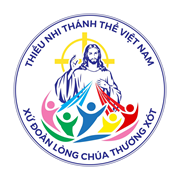
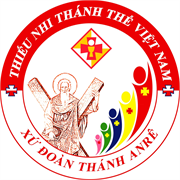
Add files via upload

diff --git a/index.html b/index.html
@@ -2,6 +2,7 @@
 <html>
 <head>
     <meta charset="UTF-8">
+  <title>Xứ Đoàn Thánh Anrê</title>
   <meta name="viewport" content="width=device-width, initial-scale=1.0, maximum-scale=1.0, user-scalable=no">
   <meta name="theme-color" content="#d32f2f">
 
@@ -23,13 +24,13 @@
   <meta name="mobile-web-app-capable" content="yes">
   <meta name="apple-mobile-web-app-capable" content="yes">
   <meta name="apple-mobile-web-app-status-bar-style" content="black-translucent">
-  <meta name="apple-mobile-web-app-title" content="Xứ Đoàn Lòng Chúa Thương Xót">
-  <meta name="application-name" content="Xứ Đoàn Lòng Chúa Thương Xót">
+  <meta name="apple-mobile-web-app-title" content="Xứ Đoàn Thánh Anrê">
+  <meta name="application-name" content="Xứ Đoàn Thánh Anrê">
   <link rel="apple-touch-icon" href="icons/apple-touch-icon.png">
   <link rel="manifest" href="manifest.webmanifest">
   <link rel="icon" type="image/png" href="icons/icon-192.png">
   
-  <link rel="shortcut icon" href="icons/logo-dai-dien.jpg" type="image/jpeg">
+  <link rel="shortcut icon" href="icons/icon-192.png" type="image/png">
   <link rel="stylesheet" href="https://cdnjs.cloudflare.com/ajax/libs/font-awesome/6.0.0/css/all.min.css">
   <script src="https://cdn.jsdelivr.net/npm/chart.js@4.4.4/dist/chart.umd.min.js"></script>
   <script src="config.js"></script>
@@ -2017,10 +2018,10 @@
     body.dark-mode .quy-progress-modern { background: #1c1d21; }
   </style>
 <script id="xd-avatar">
-// ===== ẢNH ĐẠI DIỆN: dùng ảnh của chính người đó; chưa có hoặc tải lỗi thì dùng logo Giáo xứ =====
+// ===== ẢNH ĐẠI DIỆN: dùng ảnh của chính người đó; chưa có hoặc tải lỗi thì dùng logo Xứ Đoàn =====
 // Logo mặc định để NGAY TRONG thư mục web (không phụ thuộc Drive/ibb) nên luôn hiện,
 // kể cả khi mất mạng hoặc Drive hết lượt tải.
-var ANH_LOGO_MAC_DINH = "icons/logo-dai-dien.jpg";
+var ANH_LOGO_MAC_DINH = "icons/icon-512.png";
 
 // Chuẩn hoá mọi link ảnh lấy từ máy chủ / sheet / localStorage:
 //  - link ibb cũ (đã 404)  -> logo mặc định
@@ -2264,7 +2265,7 @@ body.dark-mode .lock-notice { background:rgba(229,57,53,.14); border-color:rgba(
   <!-- MÀN HÌNH CHỜ (INTRO): logo Xứ Đoàn -> logo Hill -> nền trắng -> vào app -->
   <div id="splash-screen">
     <div class="intro-stage">
-      <img src="icons/logo-dai-dien.jpg" class="intro-logo intro-logo-1" alt="Xứ Đoàn Lòng Chúa Thương Xót">
+      <img src="icons/icon-512.png" class="intro-logo intro-logo-1" alt="Xứ Đoàn Thánh Anrê">
       <img src="icons/hill-community.png" class="intro-logo intro-logo-2" alt="Hill Community">
     </div>
   </div>
@@ -2273,10 +2274,10 @@ body.dark-mode .lock-notice { background:rgba(229,57,53,.14); border-color:rgba(
   <div id="login-screen">
     <div class="login-box">
       <div class="login-left-col">
-        <img src="icons/logo-dai-dien.jpg" class="logo-img">
+        <img src="icons/icon-512.png" class="logo-img">
         <div class="login-org-name-box">
-          XỨ ĐOÀN LÒNG CHÚA THƯƠNG XÓT
-          <small>Giáo xứ Bến Siêu</small>
+          XỨ ĐOÀN THÁNH ANRÊ
+          <small>Thiếu Nhi Thánh Thể Việt Nam</small>
         </div>
       </div>
       <div class="login-right-col">
@@ -2305,11 +2306,11 @@ body.dark-mode .lock-notice { background:rgba(229,57,53,.14); border-color:rgba(
     <!-- ===== SIDEBAR TRÁI (LAPTOP): giống bố cục của Huynh Trưởng ===== -->
     <div id="glv-sidebar">
       <div class="desktop-title-bar">
-        <img src="icons/logo-dai-dien.jpg" class="desktop-org-avatar" alt="">
-        <span>XỨ ĐOÀN LÒNG CHÚA THƯƠNG XÓT</span>
+        <img src="icons/icon-512.png" class="desktop-org-avatar" alt="">
+        <span>XỨ ĐOÀN THÁNH ANRÊ</span>
       </div>
       <div class="glv-side-user">
-        <img id="glv-side-img" src="icons/logo-dai-dien.jpg" alt="">
+        <img id="glv-side-img" src="icons/icon-512.png" alt="">
         <div class="glv-side-user-txt">
           <div id="glv-side-name">Giáo Lý Viên</div>
           <small id="glv-side-lop">Giáo Lý Viên</small>
@@ -2328,11 +2329,11 @@ body.dark-mode .lock-notice { background:rgba(229,57,53,.14); border-color:rgba(
     <div class="header">
       <div style="display:flex; align-items:center; flex-grow:1; min-width:0;">
         <span class="avatar-frame" style="margin-right:15px;">
-          <img id="glv-head-img" src="icons/logo-dai-dien.jpg" class="profile-img" style="margin-right:0;" alt="" decoding="async">
+          <img id="glv-head-img" src="icons/icon-512.png" class="profile-img" style="margin-right:0;" alt="" decoding="async">
         </span>
         <div style="min-width:0;">
           <h3 id="glv-head-name" style="margin:0; font-size:15px;">Giáo Lý Viên</h3>
-          <p id="glv-head-lop" style="margin:0; font-size:11px; opacity:0.8;">Xứ Đoàn Lòng Chúa Thương Xót</p>
+          <p id="glv-head-lop" style="margin:0; font-size:11px; opacity:0.8;">Xứ Đoàn Thánh Anrê</p>
         </div>
       </div>
       <div style="font-size:22px; cursor:pointer; position:relative; padding:9px;" onclick="toggleMenuGLV(event)">
@@ -2350,7 +2351,7 @@ body.dark-mode .lock-notice { background:rgba(229,57,53,.14); border-color:rgba(
     <div class="content" style="display:block;">
       <div id="glv-tab-lopcuatoi">
         <div class="glv-hero">
-          <span class="avatar-frame"><img id="glv-hero-img" class="glv-hero-img" src="icons/logo-dai-dien.jpg" alt="" decoding="async"></span>
+          <span class="avatar-frame"><img id="glv-hero-img" class="glv-hero-img" src="icons/icon-512.png" alt="" decoding="async"></span>
           <div class="glv-hero-txt">
             <div class="glv-hero-hi">XIN CHÀO QUÝ THẦY CÔ!</div>
             <h2 id="glv-hero-name">Giáo Lý Viên</h2>
@@ -2480,8 +2481,8 @@ body.dark-mode .lock-notice { background:rgba(229,57,53,.14); border-color:rgba(
     <div id="desktop-sidebar" class="desktop-only">
       <div id="desktop-topbar" class="desktop-only">
         <div class="desktop-title-bar">
-          <img src="icons/logo-dai-dien.jpg" class="desktop-org-avatar" onclick="toggleMenu(event)">
-          <span>XỨ ĐOÀN LÒNG CHÚA THƯƠNG XÓT</span>
+          <img src="icons/icon-512.png" class="desktop-org-avatar" onclick="toggleMenu(event)">
+          <span>XỨ ĐOÀN THÁNH ANRÊ</span>
         </div>
         <button class="desktop-settings-btn" onclick="toggleMenu(event)"><i class="fas fa-cog"></i> CÀI ĐẶT</button>
       </div>
@@ -2699,7 +2700,7 @@ body.dark-mode .lock-notice { background:rgba(229,57,53,.14); border-color:rgba(
         <h3 style="color:#d32f2f; display:flex; align-items:center; gap:8px;">NHỮNG DẤU SON CỦA XỨ ĐOÀN</h3>
         <div id="hanhtrinh-container">
           <div class="loading-logo-wrapper">
-            <span class="logo-figure"><span class="lf-arm lf-arm-l"></span><span class="lf-arm lf-arm-r"></span><img src="icons/logo-dai-dien.jpg" class="loading-logo-img"><span class="lf-leg lf-leg-l"></span><span class="lf-leg lf-leg-r"></span></span>
+            <span class="logo-figure"><span class="lf-arm lf-arm-l"></span><span class="lf-arm lf-arm-r"></span><img src="icons/icon-512.png" class="loading-logo-img"><span class="lf-leg lf-leg-l"></span><span class="lf-leg lf-leg-r"></span></span>
             <div class="loading-logo-text">Đang tải lịch sử...</div>
           </div>
         </div>
@@ -2726,7 +2727,7 @@ body.dark-mode .lock-notice { background:rgba(229,57,53,.14); border-color:rgba(
           <h3 style="font-size:15px; color:#2c3e50; margin-bottom:10px;">Đơn Của Tôi</h3>
           <div id="my-leave-container">
             <div class="loading-logo-wrapper">
-              <span class="logo-figure"><span class="lf-arm lf-arm-l"></span><span class="lf-arm lf-arm-r"></span><img src="icons/logo-dai-dien.jpg" class="loading-logo-img"><span class="lf-leg lf-leg-l"></span><span class="lf-leg lf-leg-r"></span></span>
+              <span class="logo-figure"><span class="lf-arm lf-arm-l"></span><span class="lf-arm lf-arm-r"></span><img src="icons/icon-512.png" class="loading-logo-img"><span class="lf-leg lf-leg-l"></span><span class="lf-leg lf-leg-r"></span></span>
               <div class="loading-logo-text">Đang tải đơn của bạn...</div>
             </div>
           </div>
@@ -2738,7 +2739,7 @@ body.dark-mode .lock-notice { background:rgba(229,57,53,.14); border-color:rgba(
         <p style="font-size:13px; color:#7f8c8d;">Lịch trực phân công dành riêng cho Trưởng.</p>
         <div id="work-container">
           <div class="loading-logo-wrapper">
-            <span class="logo-figure"><span class="lf-arm lf-arm-l"></span><span class="lf-arm lf-arm-r"></span><img src="icons/logo-dai-dien.jpg" class="loading-logo-img"><span class="lf-leg lf-leg-l"></span><span class="lf-leg lf-leg-r"></span></span>
+            <span class="logo-figure"><span class="lf-arm lf-arm-l"></span><span class="lf-arm lf-arm-r"></span><img src="icons/icon-512.png" class="loading-logo-img"><span class="lf-leg lf-leg-l"></span><span class="lf-leg lf-leg-r"></span></span>
             <div class="loading-logo-text">Đang tra cứu lịch...</div>
           </div>
         </div>
@@ -2749,7 +2750,7 @@ body.dark-mode .lock-notice { background:rgba(229,57,53,.14); border-color:rgba(
         <p style="font-size:13px; color:#7f8c8d;">Xác nhận tiến độ chương trình thăng tiến tại đây.</p>
         <div id="cttt-container">
           <div class="loading-logo-wrapper">
-            <span class="logo-figure"><span class="lf-arm lf-arm-l"></span><span class="lf-arm lf-arm-r"></span><img src="icons/logo-dai-dien.jpg" class="loading-logo-img"><span class="lf-leg lf-leg-l"></span><span class="lf-leg lf-leg-r"></span></span>
+            <span class="logo-figure"><span class="lf-arm lf-arm-l"></span><span class="lf-arm lf-arm-r"></span><img src="icons/icon-512.png" class="loading-logo-img"><span class="lf-leg lf-leg-l"></span><span class="lf-leg lf-leg-r"></span></span>
             <div class="loading-logo-text">Đang tải CTTT...</div>
           </div>
         </div>
@@ -2764,7 +2765,7 @@ body.dark-mode .lock-notice { background:rgba(229,57,53,.14); border-color:rgba(
 
         <div id="thieunhi-container">
           <div class="loading-logo-wrapper">
-            <span class="logo-figure"><span class="lf-arm lf-arm-l"></span><span class="lf-arm lf-arm-r"></span><img src="icons/logo-dai-dien.jpg" class="loading-logo-img"><span class="lf-leg lf-leg-l"></span><span class="lf-leg lf-leg-r"></span></span>
+            <span class="logo-figure"><span class="lf-arm lf-arm-l"></span><span class="lf-arm lf-arm-r"></span><img src="icons/icon-512.png" class="loading-logo-img"><span class="lf-leg lf-leg-l"></span><span class="lf-leg lf-leg-r"></span></span>
             <div class="loading-logo-text">Đang tải danh sách...</div>
           </div>
         </div>
@@ -2794,7 +2795,7 @@ body.dark-mode .lock-notice { background:rgba(229,57,53,.14); border-color:rgba(
 
         <div id="approval-container">
           <div class="loading-logo-wrapper">
-            <span class="logo-figure"><span class="lf-arm lf-arm-l"></span><span class="lf-arm lf-arm-r"></span><img src="icons/logo-dai-dien.jpg" class="loading-logo-img"><span class="lf-leg lf-leg-l"></span><span class="lf-leg lf-leg-r"></span></span>
+            <span class="logo-figure"><span class="lf-arm lf-arm-l"></span><span class="lf-arm lf-arm-r"></span><img src="icons/icon-512.png" class="loading-logo-img"><span class="lf-leg lf-leg-l"></span><span class="lf-leg lf-leg-r"></span></span>
             <div class="loading-logo-text">Đang tải đơn...</div>
           </div>
         </div>
@@ -2858,7 +2859,7 @@ body.dark-mode .lock-notice { background:rgba(229,57,53,.14); border-color:rgba(
             <button onclick="thiDuaTaiDuLieu()" style="border:none; background:#f1f3f5; padding:6px 9px; border-radius:8px; cursor:pointer; color:#2c3e50; font-size:12px;"><i class="fas fa-sync-alt"></i></button>
           </div>
           <div id="td-my-history">
-            <div class="loading-logo-wrapper"><span class="logo-figure"><span class="lf-arm lf-arm-l"></span><span class="lf-arm lf-arm-r"></span><img src="icons/logo-dai-dien.jpg" class="loading-logo-img"><span class="lf-leg lf-leg-l"></span><span class="lf-leg lf-leg-r"></span></span><div class="loading-logo-text">Đang tải...</div></div>
+            <div class="loading-logo-wrapper"><span class="logo-figure"><span class="lf-arm lf-arm-l"></span><span class="lf-arm lf-arm-r"></span><img src="icons/icon-512.png" class="loading-logo-img"><span class="lf-leg lf-leg-l"></span><span class="lf-leg lf-leg-r"></span></span><div class="loading-logo-text">Đang tải...</div></div>
           </div>
         </div>
 
@@ -2866,7 +2867,7 @@ body.dark-mode .lock-notice { background:rgba(229,57,53,.14); border-color:rgba(
         <div class="card" style="padding:12px; margin-top:15px;">
           <h3 style="margin:0 0 10px; font-size:14px; color:#2c3e50;"><i class="fas fa-list-ol" style="color:#d32f2f;"></i> Bảng Xếp Hạng Thi Đua (<span id="td-thang-hientai">--</span>)</h3>
           <div id="td-bang-xephang">
-            <div class="loading-logo-wrapper"><span class="logo-figure"><span class="lf-arm lf-arm-l"></span><span class="lf-arm lf-arm-r"></span><img src="icons/logo-dai-dien.jpg" class="loading-logo-img"><span class="lf-leg lf-leg-l"></span><span class="lf-leg lf-leg-r"></span></span><div class="loading-logo-text">Đang tải bảng xếp hạng...</div></div>
+            <div class="loading-logo-wrapper"><span class="logo-figure"><span class="lf-arm lf-arm-l"></span><span class="lf-arm lf-arm-r"></span><img src="icons/icon-512.png" class="loading-logo-img"><span class="lf-leg lf-leg-l"></span><span class="lf-leg lf-leg-r"></span></span><div class="loading-logo-text">Đang tải bảng xếp hạng...</div></div>
           </div>
         </div>
       </div>
@@ -2886,7 +2887,7 @@ body.dark-mode .lock-notice { background:rgba(229,57,53,.14); border-color:rgba(
 
         <div id="kt-tab-dangmo" class="kt-tab-content">
           <div id="kt-ds-dangmo">
-            <div class="loading-logo-wrapper"><span class="logo-figure"><span class="lf-arm lf-arm-l"></span><span class="lf-arm lf-arm-r"></span><img src="icons/logo-dai-dien.jpg" class="loading-logo-img"><span class="lf-leg lf-leg-l"></span><span class="lf-leg lf-leg-r"></span></span><div class="loading-logo-text">Đang tải...</div></div>
+            <div class="loading-logo-wrapper"><span class="logo-figure"><span class="lf-arm lf-arm-l"></span><span class="lf-arm lf-arm-r"></span><img src="icons/icon-512.png" class="loading-logo-img"><span class="lf-leg lf-leg-l"></span><span class="lf-leg lf-leg-r"></span></span><div class="loading-logo-text">Đang tải...</div></div>
           </div>
         </div>
 
@@ -3109,7 +3110,7 @@ body.dark-mode .lock-notice { background:rgba(229,57,53,.14); border-color:rgba(
 
           <div id="quyDanhSachContainer">
             <div class="loading-logo-wrapper">
-              <span class="logo-figure"><span class="lf-arm lf-arm-l"></span><span class="lf-arm lf-arm-r"></span><img src="icons/logo-dai-dien.jpg" class="loading-logo-img"><span class="lf-leg lf-leg-l"></span><span class="lf-leg lf-leg-r"></span></span>
+              <span class="logo-figure"><span class="lf-arm lf-arm-l"></span><span class="lf-arm lf-arm-r"></span><img src="icons/icon-512.png" class="loading-logo-img"><span class="lf-leg lf-leg-l"></span><span class="lf-leg lf-leg-r"></span></span>
               <div class="loading-logo-text">Đang tải danh sách...</div>
             </div>
           </div>
@@ -3182,7 +3183,7 @@ body.dark-mode .lock-notice { background:rgba(229,57,53,.14); border-color:rgba(
             <div style="text-align:center; font-size:11px; color:#95a5a6; margin-bottom:10px;">Xuất theo tuần đang chọn ở trang Quỹ chính: Chủ Nhật <span id="quyChiTieuTuanXuatLabel">--/--/----</span></div>
 
             <div id="quyChiTieuListWrap" style="flex:1; overflow-y:auto; border:1px solid #eee; border-radius:8px; padding:6px; margin-bottom:10px;">
-              <div class="loading-logo-wrapper"><span class="logo-figure"><span class="lf-arm lf-arm-l"></span><span class="lf-arm lf-arm-r"></span><img src="icons/logo-dai-dien.jpg" class="loading-logo-img"><span class="lf-leg lf-leg-l"></span><span class="lf-leg lf-leg-r"></span></span><div class="loading-logo-text">Đang tải...</div></div>
+              <div class="loading-logo-wrapper"><span class="logo-figure"><span class="lf-arm lf-arm-l"></span><span class="lf-arm lf-arm-r"></span><img src="icons/icon-512.png" class="loading-logo-img"><span class="lf-leg lf-leg-l"></span><span class="lf-leg lf-leg-r"></span></span><div class="loading-logo-text">Đang tải...</div></div>
             </div>
 
             <div style="border-top:1px solid #eee; padding-top:10px;">
@@ -3206,7 +3207,7 @@ body.dark-mode .lock-notice { background:rgba(229,57,53,.14); border-color:rgba(
             </div>
             <div style="font-size:12px; color:#7f8c8d; margin-bottom:10px;">Tích chọn những Huynh Trưởng <b>không phải đóng</b> quỹ hàng tuần. Lưu ý: nếu trước đó họ đã đóng thì khoản tiền đã đóng vẫn được tính vào báo cáo và tồn quỹ.</div>
             <div id="quyMienThuList" style="flex:1; overflow-y:auto; border:1px solid #eee; border-radius:8px; padding:6px;">
-              <div class="loading-logo-wrapper"><span class="logo-figure"><span class="lf-arm lf-arm-l"></span><span class="lf-arm lf-arm-r"></span><img src="icons/logo-dai-dien.jpg" class="loading-logo-img"><span class="lf-leg lf-leg-l"></span><span class="lf-leg lf-leg-r"></span></span><div class="loading-logo-text">Đang tải...</div></div>
+              <div class="loading-logo-wrapper"><span class="logo-figure"><span class="lf-arm lf-arm-l"></span><span class="lf-arm lf-arm-r"></span><img src="icons/icon-512.png" class="loading-logo-img"><span class="lf-leg lf-leg-l"></span><span class="lf-leg lf-leg-r"></span></span><div class="loading-logo-text">Đang tải...</div></div>
             </div>
             <button id="quyMienThuLuuBtn" onclick="quyLuuMienThuHTSubmit()" style="width:100%; background:#d32f2f; color:white; border:none; padding:12px; border-radius:8px; font-weight:bold; cursor:pointer; font-size:14px; margin-top:10px;">Lưu danh sách</button>
           </div>
@@ -3264,7 +3265,7 @@ body.dark-mode .lock-notice { background:rgba(229,57,53,.14); border-color:rgba(
       <span class="cbot-fab-figure">
         <span class="cbot-fab-arm cbot-fab-arm-l"></span>
         <span class="cbot-fab-arm cbot-fab-arm-r"></span>
-        <img src="icons/logo-dai-dien.jpg" class="cbot-fab-img">
+        <img src="icons/icon-512.png" class="cbot-fab-img">
         <span class="cbot-fab-leg cbot-fab-leg-l"></span>
         <span class="cbot-fab-leg cbot-fab-leg-r"></span>
       </span>
@@ -3394,20 +3395,20 @@ body.dark-mode .lock-notice { background:rgba(229,57,53,.14); border-color:rgba(
     var promoData = [
       {
         image: "https://lh3.googleusercontent.com/d/1uuATnxvh_dHrup-XAtYdl18iq1MEKRiY",
-        title: "XỨ ĐOÀN LÒNG CHÚA THƯƠNG XÓT",
-        desc: "Xin chào Giáo xứ Bến Siêu",
+        title: "XỨ ĐOÀN THÁNH ANRÊ",
+        desc: "Chào mừng đến với Xứ Đoàn",
         link: "#" // Thử nghiệm ảnh có đường dẫn thật
       },
       {
         image: "https://lh3.googleusercontent.com/d/1uuATnxvh_dHrup-XAtYdl18iq1MEKRiY",
-        title: "XỨ ĐOÀN LÒNG CHÚA THƯƠNG XÓT",
-        desc: "Xin chào Giáo xứ Bến Siêu",
+        title: "XỨ ĐOÀN THÁNH ANRÊ",
+        desc: "Chào mừng đến với Xứ Đoàn",
         link: "#"// Không có link (chỉ xem, bấm vào không nhảy trang)
       },
       {
         image: "https://lh3.googleusercontent.com/d/1uuATnxvh_dHrup-XAtYdl18iq1MEKRiY",
-        title: "XỨ ĐOÀN LÒNG CHÚA THƯƠNG XÓT",
-        desc: "Xin chào Giáo xứ Bến Siêu",
+        title: "XỨ ĐOÀN THÁNH ANRÊ",
+        desc: "Chào mừng đến với Xứ Đoàn",
         link: "#" // Không có link (chỉ xem, bấm vào không nhảy trang)
       }
     ];
@@ -3579,7 +3580,7 @@ body.dark-mode .lock-notice { background:rgba(229,57,53,.14); border-color:rgba(
       var displayText = text || "Đang tải...";
       return `
         <div class="loading-logo-wrapper" style="animation: fadeIn 0.35s ease-out both;">
-          <span class="logo-figure"><span class="lf-arm lf-arm-l"></span><span class="lf-arm lf-arm-r"></span><img src="icons/logo-dai-dien.jpg" class="loading-logo-img"><span class="lf-leg lf-leg-l"></span><span class="lf-leg lf-leg-r"></span></span>
+          <span class="logo-figure"><span class="lf-arm lf-arm-l"></span><span class="lf-arm lf-arm-r"></span><img src="icons/icon-512.png" class="loading-logo-img"><span class="lf-leg lf-leg-l"></span><span class="lf-leg lf-leg-r"></span></span>
           <div class="loading-logo-text">${displayText}</div>
         </div>`;
     }
@@ -5368,7 +5369,7 @@ body.dark-mode .lock-notice { background:rgba(229,57,53,.14); border-color:rgba(
       btn.innerHTML =
         '<span class="logo-figure" style="margin-bottom:0;">' +
           '<span class="lf-arm lf-arm-l"></span><span class="lf-arm lf-arm-r"></span>' +
-          '<img src="icons/logo-dai-dien.jpg" class="loading-logo-img">' +
+          '<img src="icons/icon-512.png" class="loading-logo-img">' +
           '<span class="lf-leg lf-leg-l"></span><span class="lf-leg lf-leg-r"></span>' +
         '</span>' +
         '<span>Đang nộp bài...</span>';
@@ -5994,7 +5995,7 @@ body.dark-mode .lock-notice { background:rgba(229,57,53,.14); border-color:rgba(
     // điểm danh -> logo Xứ Đoàn hiện màu như bình thường + tick xanh; ngày
     // chưa tới -> logo bị làm mờ/xám. Ô "hôm nay" được viền đỏ nổi bật.
     function tdVeLuoiDiemDanh(chuoiHoanThanh, daDiemDanhHomNay) {
-      var LOGO_URL = "icons/logo-dai-dien.jpg";
+      var LOGO_URL = "icons/icon-512.png";
       var homNayIdx = daDiemDanhHomNay ? chuoiHoanThanh : ((chuoiHoanThanh >= 10) ? 1 : (chuoiHoanThanh + 1));
 
       var html = "";
@@ -7295,16 +7296,16 @@ body.dark-mode .lock-notice { background:rgba(229,57,53,.14); border-color:rgba(
       <div style="padding:18px 18px 6px 18px; overflow-y:auto; flex:1;">
         <div style="text-align:center; margin-bottom:16px;">
           <div style="display:flex; justify-content:center; align-items:center; gap:14px;">
-            <img src="icons/logo-dai-dien.jpg" alt="Logo Xứ Đoàn" style="width:64px; height:64px; border-radius:50%; object-fit:cover; border:3px solid #f0f2f5; background:#fff;">
+            <img src="icons/icon-512.png" alt="Logo Xứ Đoàn" style="width:64px; height:64px; border-radius:50%; object-fit:cover; border:3px solid #f0f2f5; background:#fff;">
             <img src="icons/hill-v2.png" alt="Logo Hill" style="width:64px; height:64px; border-radius:50%; object-fit:cover; border:3px solid #f0f2f5; background:#fff;">
           </div>
-          <h4 style="margin:10px 0 2px 0; color:#2c3e50;">Xứ Đoàn Lòng Chúa Thương Xót</h4>
-          <p style="margin:0; font-size:12px; color:#95a5a6;">Giáo xứ Bến Siêu · Hệ thống quản lý Huynh Trưởng</p>
+          <h4 style="margin:10px 0 2px 0; color:#2c3e50;">Xứ Đoàn Thánh Anrê</h4>
+          <p style="margin:0; font-size:12px; color:#95a5a6;">Hệ thống quản lý Huynh Trưởng</p>
         </div>
 
         <div style="background:#f8f9fa; border-radius:12px; padding:14px; margin-bottom:12px;">
           <div style="font-size:11px; text-transform:uppercase; font-weight:bold; color:#d32f2f; letter-spacing:0.5px; margin-bottom:6px;"><i class="fas fa-code"></i> Nhà phát triển</div>
-          <div style="font-size:14px; font-weight:600; color:#2c3e50;">Phát triển Portal Huynh trưởng xứ đoàn GX Bến Siêu</div>
+          <div style="font-size:14px; font-weight:600; color:#2c3e50;">Phát triển Portal Huynh trưởng Xứ Đoàn Thánh Anrê</div>
         </div>
 
         <div style="background:#f8f9fa; border-radius:12px; padding:14px; margin-bottom:12px;">
@@ -8169,7 +8170,7 @@ body.dark-mode .lock-notice { background:rgba(229,57,53,.14); border-color:rgba(
 
   function quyTaiDanhSach() {
     var cont = document.getElementById("quyDanhSachContainer");
-    cont.innerHTML = '<div class="loading-logo-wrapper"><span class="logo-figure"><span class="lf-arm lf-arm-l"></span><span class="lf-arm lf-arm-r"></span><img src="icons/logo-dai-dien.jpg" class="loading-logo-img"><span class="lf-leg lf-leg-l"></span><span class="lf-leg lf-leg-r"></span></span><div class="loading-logo-text">Đang tải...</div></div>';
+    cont.innerHTML = '<div class="loading-logo-wrapper"><span class="logo-figure"><span class="lf-arm lf-arm-l"></span><span class="lf-arm lf-arm-r"></span><img src="icons/icon-512.png" class="loading-logo-img"><span class="lf-leg lf-leg-l"></span><span class="lf-leg lf-leg-r"></span></span><div class="loading-logo-text">Đang tải...</div></div>';
     var tuanKey = quyFormatDateKey(quyState.tuan);
     google.script.run.withSuccessHandler(function (res) {
       if (!res || !res.success) { cont.innerHTML = '<p style="text-align:center; color:#e74c3c;">' + (res && res.error ? res.error : "Lỗi tải dữ liệu") + '</p>'; return; }
@@ -8517,7 +8518,7 @@ body.dark-mode .lock-notice { background:rgba(229,57,53,.14); border-color:rgba(
   function quyMoMienThuModal() {
     document.getElementById("quyMienThuModalBg").style.display = "flex";
     var cont = document.getElementById("quyMienThuList");
-    cont.innerHTML = '<div class="loading-logo-wrapper"><span class="logo-figure"><span class="lf-arm lf-arm-l"></span><span class="lf-arm lf-arm-r"></span><img src="icons/logo-dai-dien.jpg" class="loading-logo-img"><span class="lf-leg lf-leg-l"></span><span class="lf-leg lf-leg-r"></span></span><div class="loading-logo-text">Đang tải...</div></div>';
+    cont.innerHTML = '<div class="loading-logo-wrapper"><span class="logo-figure"><span class="lf-arm lf-arm-l"></span><span class="lf-arm lf-arm-r"></span><img src="icons/icon-512.png" class="loading-logo-img"><span class="lf-leg lf-leg-l"></span><span class="lf-leg lf-leg-r"></span></span><div class="loading-logo-text">Đang tải...</div></div>';
     google.script.run.withSuccessHandler(function (res) {
       if (!res || !res.success) { cont.innerHTML = '<p style="text-align:center; color:#e74c3c;">' + (res && res.error ? res.error : "Lỗi tải dữ liệu") + '</p>'; return; }
       var list = res.danhSach || [];
@@ -8600,7 +8601,7 @@ body.dark-mode .lock-notice { background:rgba(229,57,53,.14); border-color:rgba(
 
   function quyChiTieuTaiDanhSach() {
     var cont = document.getElementById("quyChiTieuListWrap");
-    cont.innerHTML = '<div class="loading-logo-wrapper"><span class="logo-figure"><span class="lf-arm lf-arm-l"></span><span class="lf-arm lf-arm-r"></span><img src="icons/logo-dai-dien.jpg" class="loading-logo-img"><span class="lf-leg lf-leg-l"></span><span class="lf-leg lf-leg-r"></span></span><div class="loading-logo-text">Đang tải...</div></div>';
+    cont.innerHTML = '<div class="loading-logo-wrapper"><span class="logo-figure"><span class="lf-arm lf-arm-l"></span><span class="lf-arm lf-arm-r"></span><img src="icons/icon-512.png" class="loading-logo-img"><span class="lf-leg lf-leg-l"></span><span class="lf-leg lf-leg-r"></span></span><div class="loading-logo-text">Đang tải...</div></div>';
     var thangKey = quyChiTieuThangKey(quyChiTieuState.thang);
     google.script.run.withSuccessHandler(function (res) {
       if (!res || !res.success) { cont.innerHTML = '<p style="text-align:center; color:#e74c3c;">' + (res && res.error ? res.error : "Lỗi tải dữ liệu") + '</p>'; return; }
@@ -10707,11 +10708,12 @@ body.dark-mode .lock-notice { background:rgba(229,57,53,.14); border-color:rgba(
 // Hiện ĐÚNG 1 LẦN ngay sau khi đăng nhập (kể cả tự đăng nhập lại) cho mỗi phiên bản, trên mỗi thiết bị.
 // Muốn giới thiệu bản mới: đổi "so" (ví dụ "2.1.0") + sửa nội dung "muc" -> mọi người sẽ thấy lại 1 lần.
 var APP_PHIEN_BAN = {
-  so: "2.7.2",
-  ngay: "07/11/2026",
-  tieuDe: "Sửa lỗi màn hình chờ",
+  so: "2.8.0",
+  ngay: "12/11/2026",
+  tieuDe: "Xứ Đoàn Thánh Anrê",
   muc: [
-    { icon: "fa-wand-magic-sparkles", tieuDe: "Logo Xứ Đoàn đứng yên khi mở app", moTa: "Logo không còn bị lệch rồi “nhảy” vào giữa lúc màn hình chờ bắt đầu. Hiệu ứng hiện ra mượt hơn trên cả điện thoại và máy tính." }
+    { icon: "fa-church", tieuDe: "Tên mới: Xứ Đoàn Thánh Anrê", moTa: "Toàn bộ giao diện, màn hình đăng nhập, văn bản và báo cáo PDF đã chuyển sang tên mới." },
+    { icon: "fa-image", tieuDe: "Logo mới", moTa: "Logo Xứ Đoàn được thay bằng bộ nhận diện mới, đồng bộ trên điện thoại và máy tính." }
   ]
 };
 

diff --git a/sw.js b/sw.js
@@ -1,10 +1,10 @@
 // Service worker: mở app TỨC THÌ từ bộ nhớ máy, tải bản mới ở nền, báo khi có bản mới,
 // và nhận THÔNG BÁO ĐẨY (Firebase Cloud Messaging) kể cả khi app đang đóng.
-var VERSION = "v19";
+var VERSION = "v20";
 var SHELL = "shell-" + VERSION;
 var STATIC = "static-" + VERSION;
 var SHELL_FILES = ["./", "index.html", "config.js", "gas-shim.js", "push.js", "manifest.webmanifest",
-  "icons/icon-192.png", "icons/icon-512.png", "icons/logo-dai-dien.jpg", "icons/hill-v2.png", "icons/hill-community.png"];
+  "icons/icon-192.png", "icons/icon-512.png", "icons/hill-v2.png", "icons/hill-community.png"];
 var CDN_HOSTS = ["cdnjs.cloudflare.com", "cdn.jsdelivr.net", "fonts.googleapis.com", "fonts.gstatic.com"];
 var daBao = false;
 
